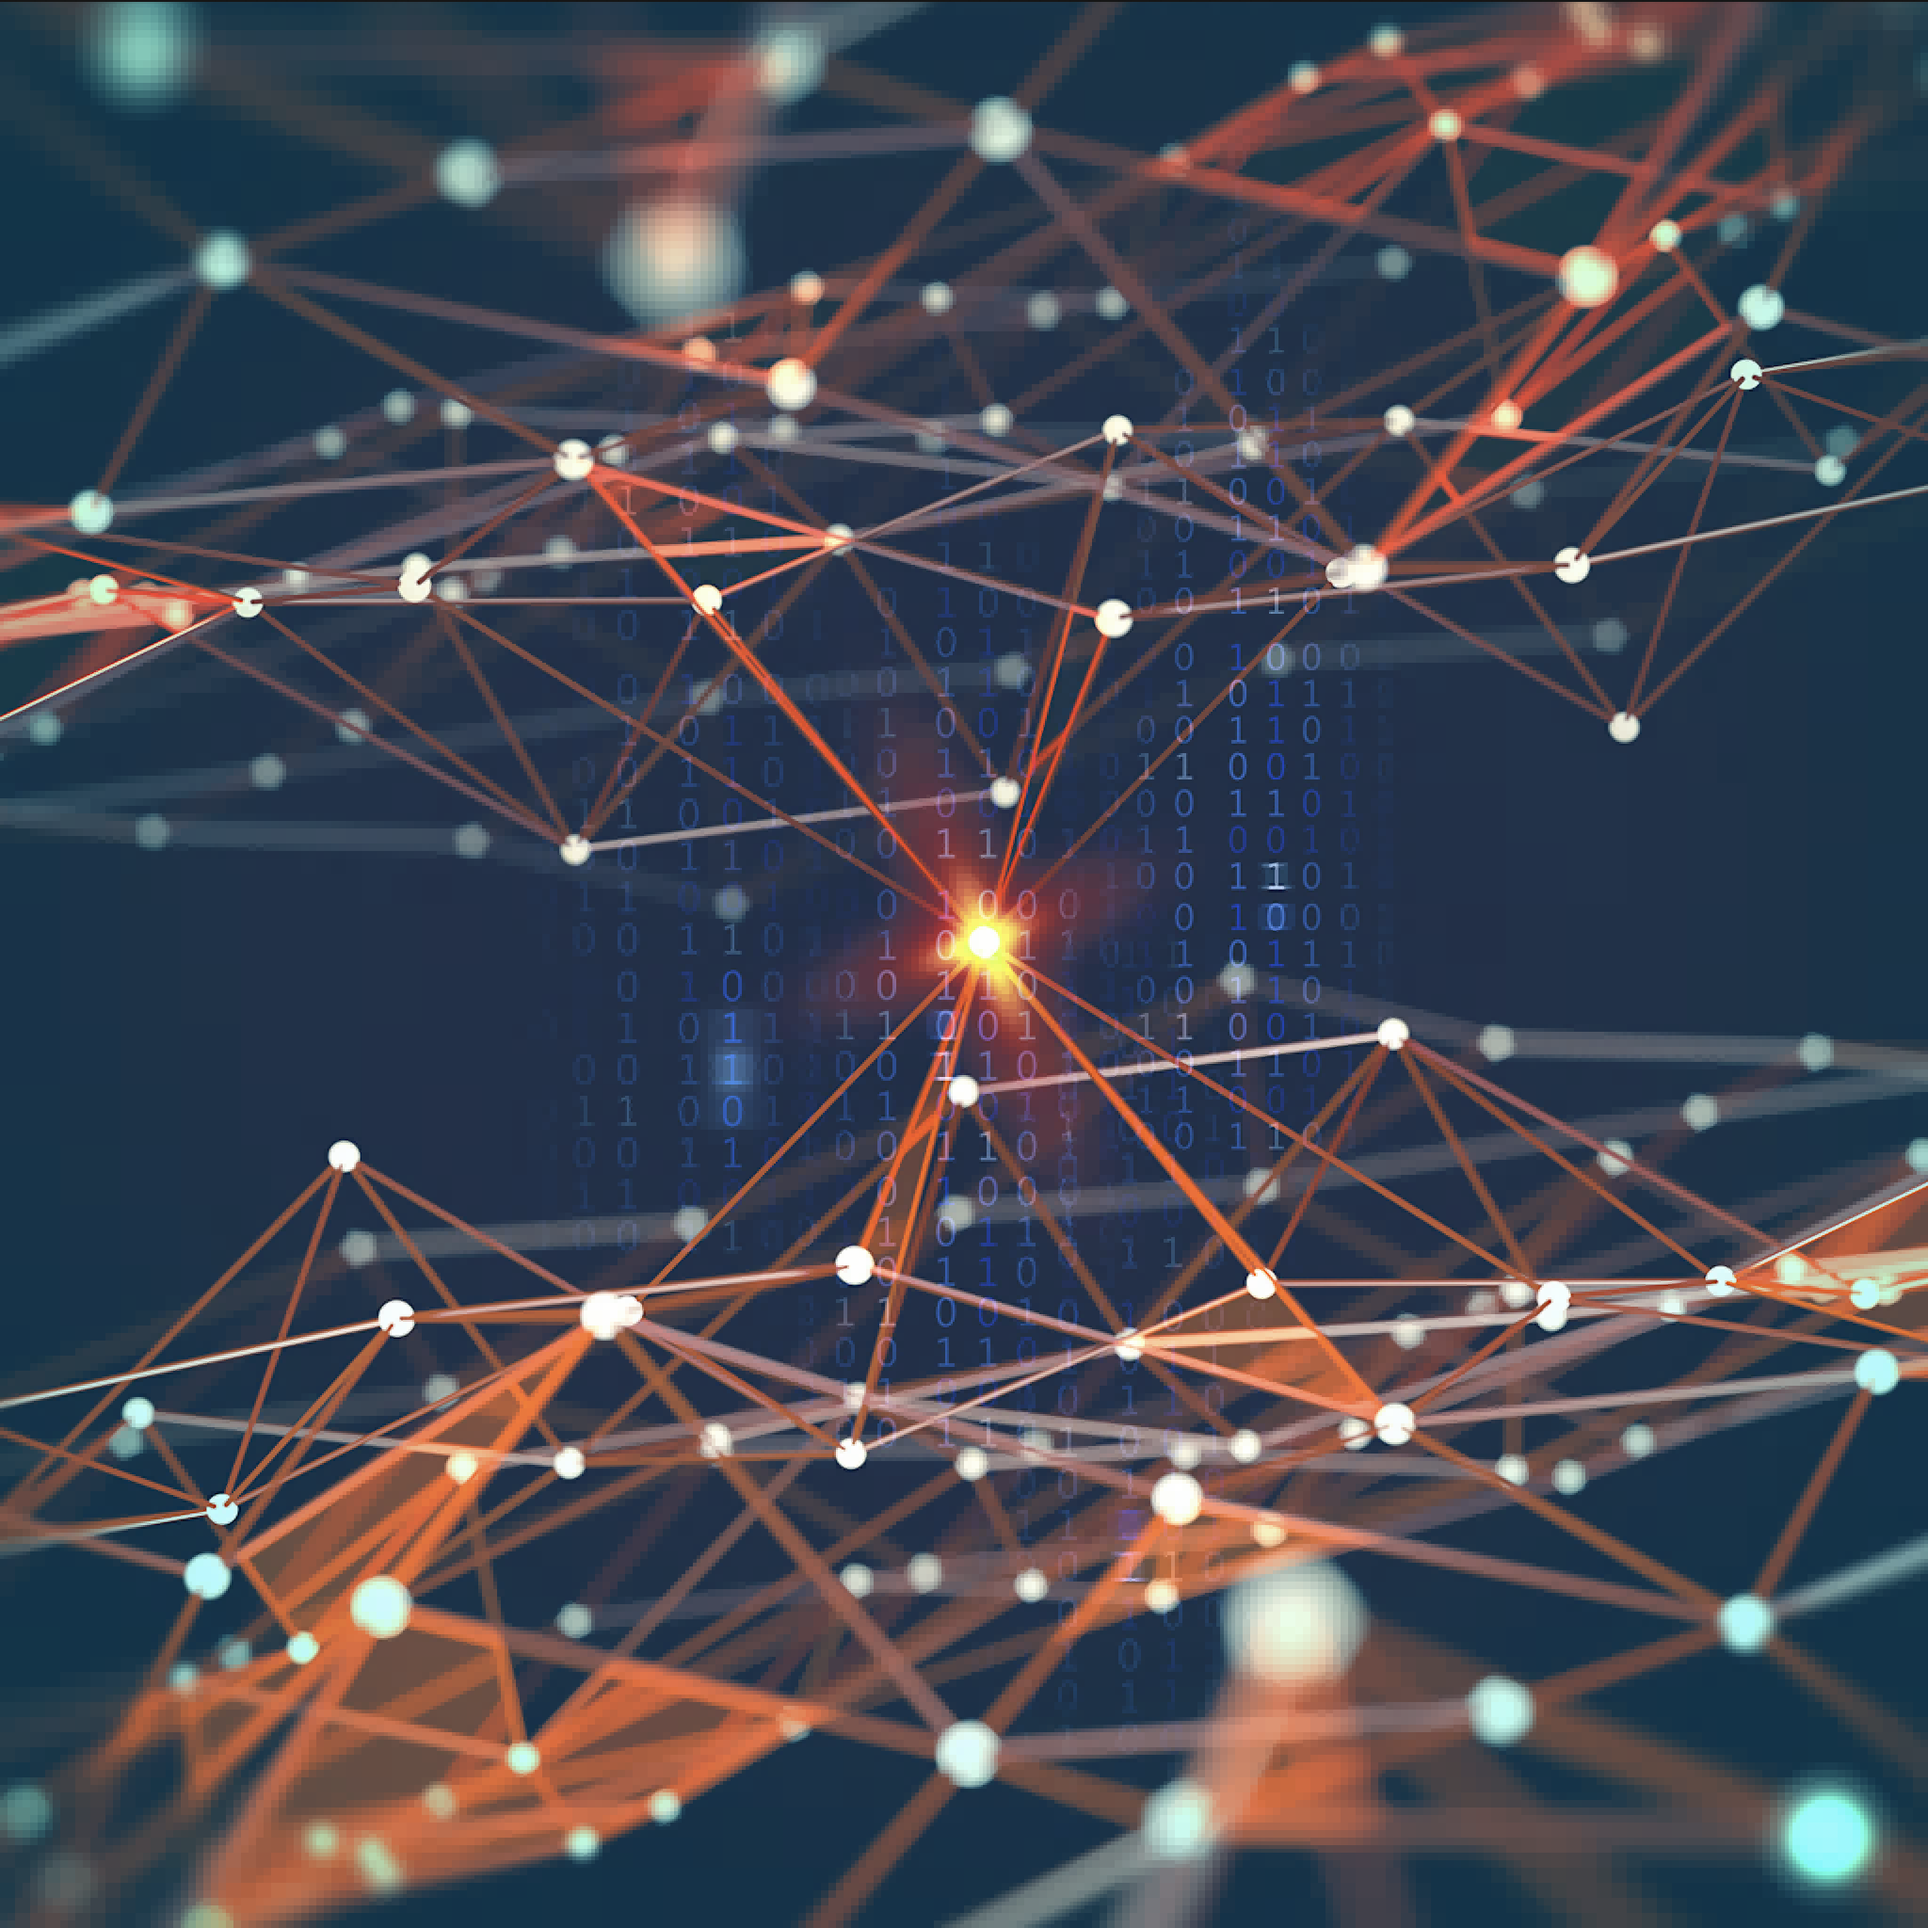
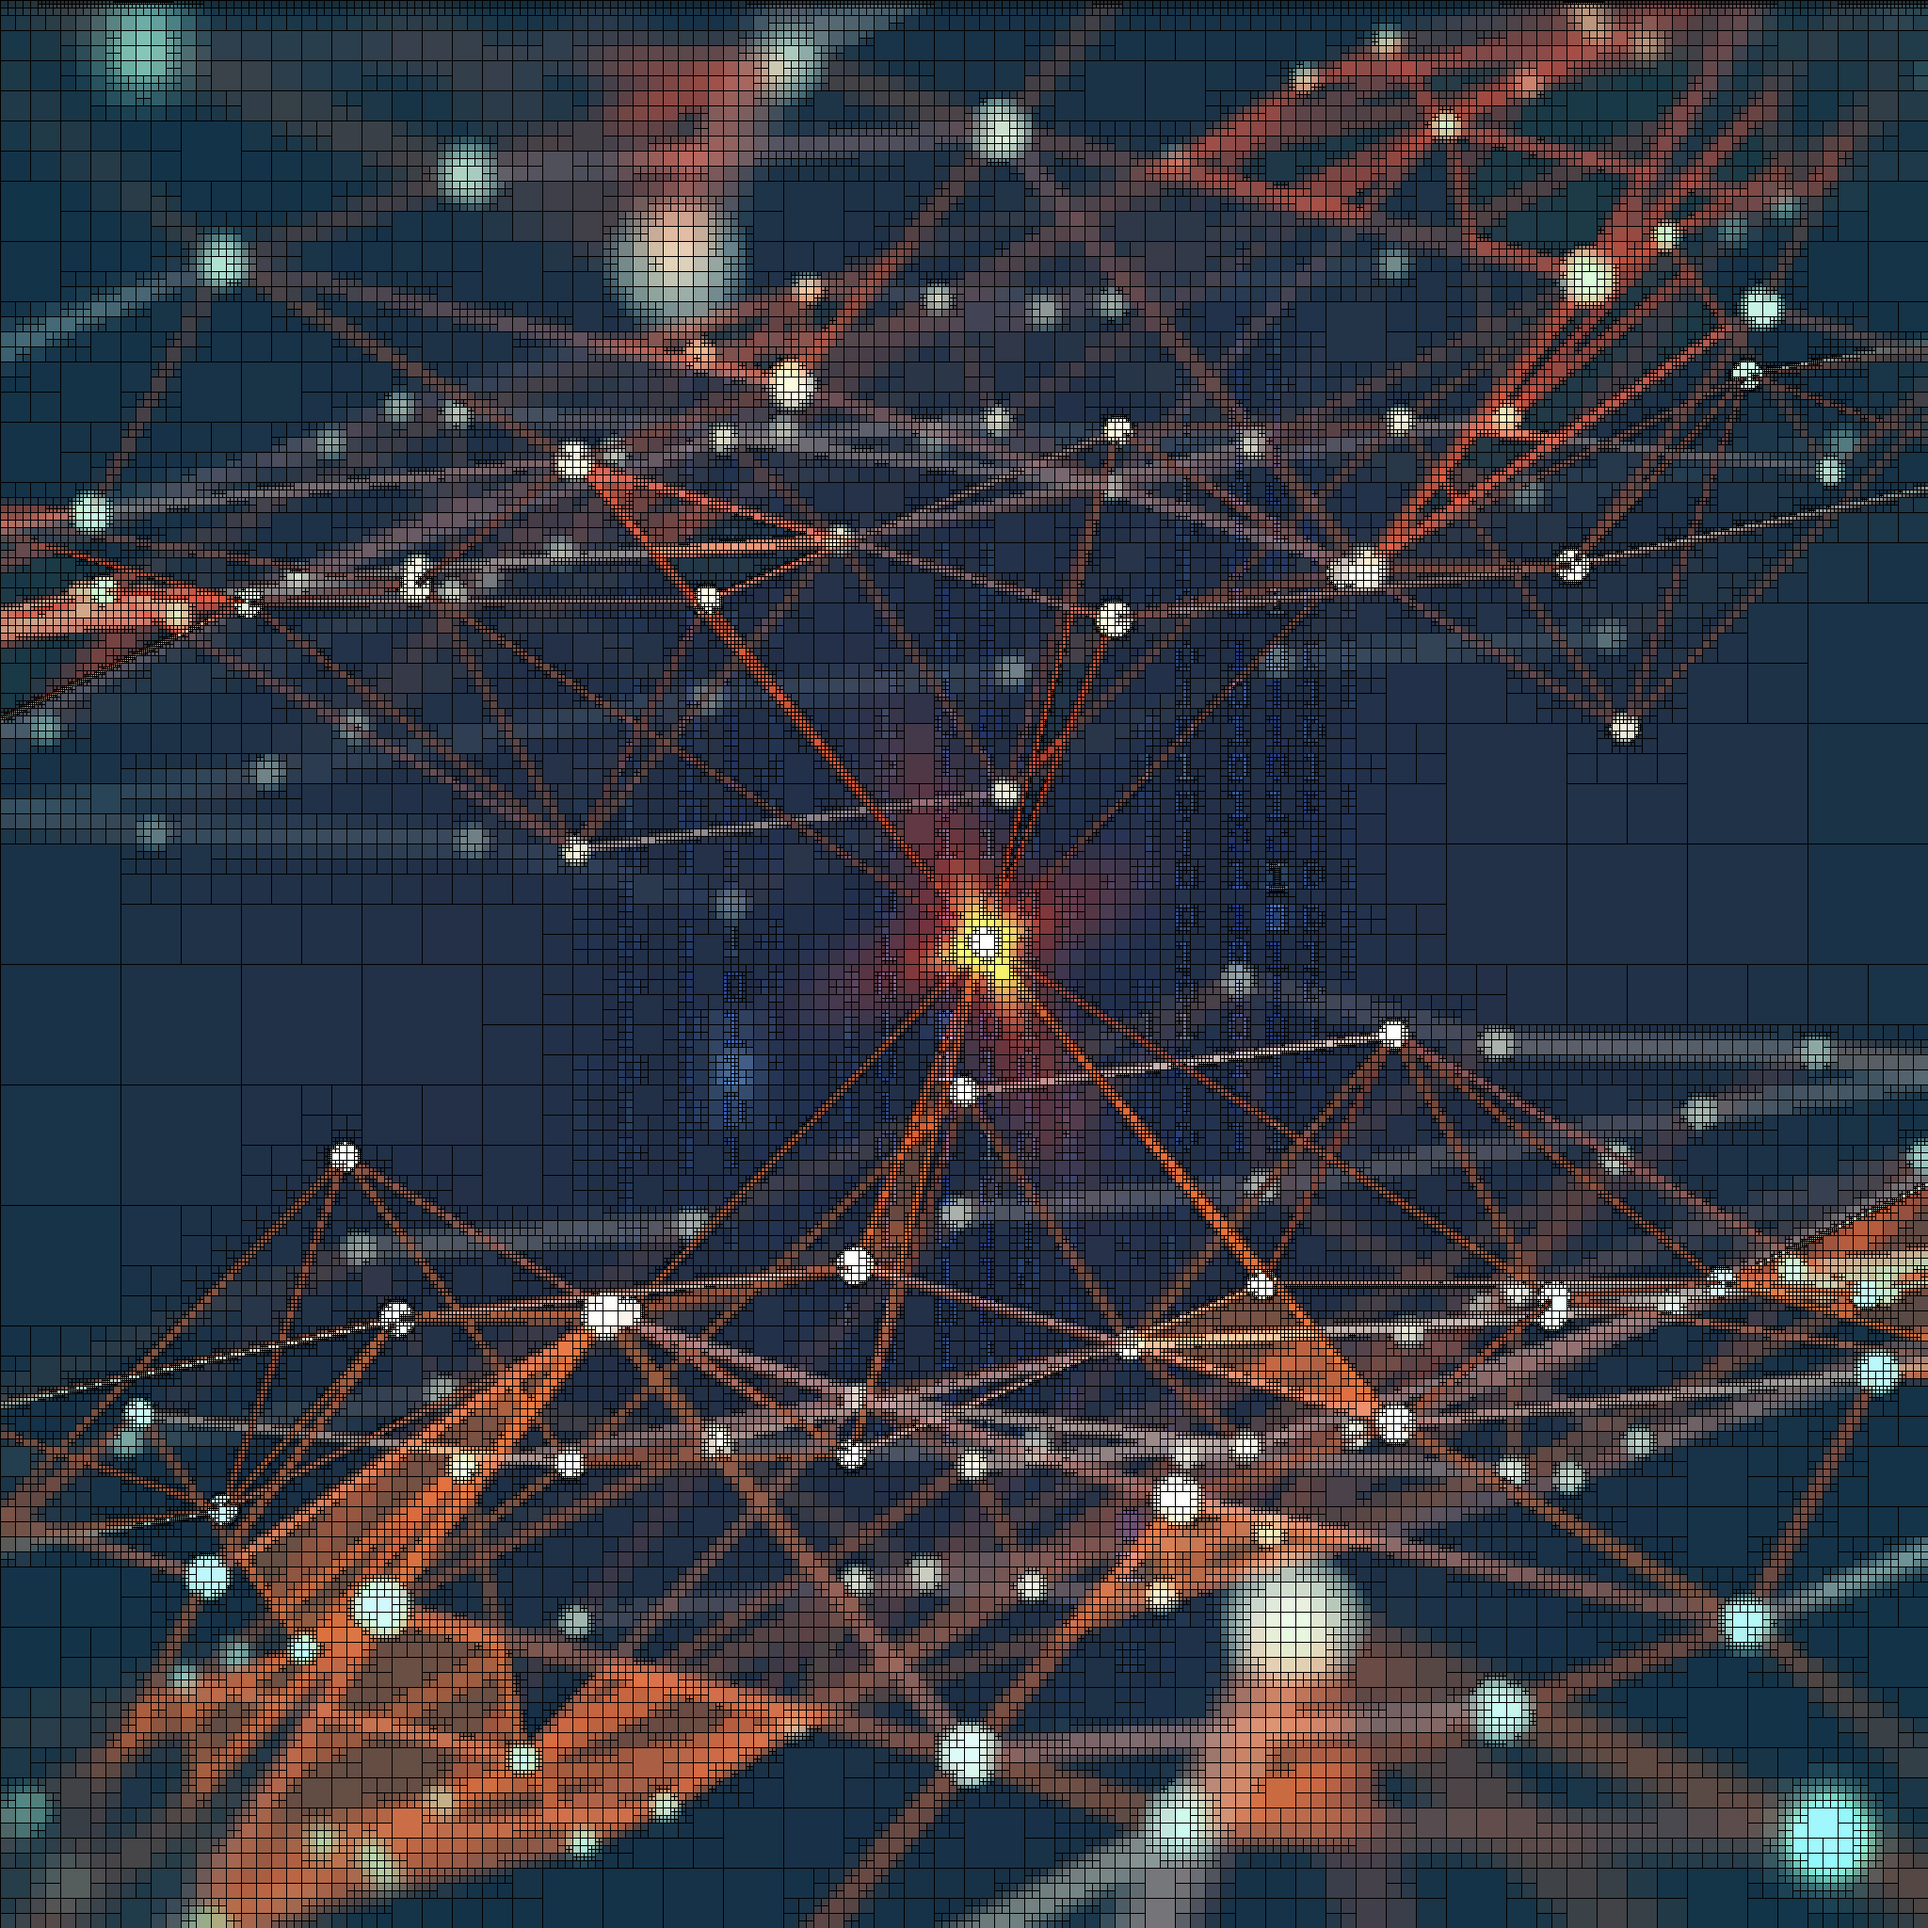
Gonna test out some code

Changed region(s): [[0.0, 0.0, 1.0, 1.0]]

diff --git a/main.cpp b/main.cpp
@@ -26,12 +26,12 @@ int main()
 	origIm2.readFromFile("images/orig/adasquare.png");
 	PNG origIm3;
 	origIm3.readFromFile("images/orig/stanley-totem-poles.png");
-	// PNG origIm4;
-	// origIm4.readFromFile("images/orig/ubc.png");
+	PNG origIm4;
+	origIm4.readFromFile("images/orig/network.png");
 	// PNG origIm5;
 	// origIm5.readFromFile("images/orig/network.png");
-	PNG origIm6;
-	origIm6.readFromFile("images/orig/ben.png");
+	// PNG origIm6;
+	// origIm6.readFromFile("images/orig/scott.png");
 
 	// use it to build a quadtree
 	qtcount t1(origIm1);
@@ -40,36 +40,36 @@ int main()
 	qtcount tCopy2(t2);
 	qtcount t3(origIm3);
 	qtcount tCopy3(t3);
-	// qtcount t4(origIm4);
-	// qtcount tCopy4(t4);
+	qtcount t4(origIm4);
+	qtcount tCopy4(t4);
 	// qtcount t5(origIm5);
 	// qtcount tCopy5(t5);
-	qtcount t6(origIm6);
-	qtcount tCopy6(t6);
+	// qtcount t6(origIm6);
+	// qtcount tCopy6(t6);
 
 	// prune the quadtree
 	tCopy1.prune(10000); 
 	tCopy2.prune(10000); 
 	tCopy3.prune(3000); 
-	// tCopy4.prune(20000);
+	tCopy4.prune(15000);
 	// tCopy5.prune(10000);
-	tCopy6.prune(7000);
+	// tCopy6.prune(10000);
 
     
 	// render the quadtree
 	PNG ppic1 = tCopy1.render();
 	PNG ppic2 = tCopy2.render();
 	PNG ppic3 = tCopy3.render();
-	// PNG ppic4 = tCopy4.render();
+	PNG ppic4 = tCopy4.render();
 	// PNG ppic5 = tCopy5.render();
-	PNG ppic6 = tCopy6.render();
+	// PNG ppic6 = tCopy6.render();
 
 	ppic1.writeToFile("images/out/output-prunedKJVFbig.png");
 	ppic2.writeToFile("images/out/output-prunedadasquare.png");
 	ppic3.writeToFile("images/out/output-prunedstanley-totem-poles-square.png");
-	// ppic4.writeToFile("images/out/output-prunedubc.png");
+	ppic4.writeToFile("images/out/output-prunednetwork.png");
 	// ppic5.writeToFile("images/out/output-networkpruned.png");
-	ppic6.writeToFile("images/out/output-benpruned.png");
+	// ppic6.writeToFile("images/out/output-scottpruned.png");
 	
 
 	// use it to build a quadtree
@@ -79,35 +79,35 @@ int main()
 	qtvar vCopy2(v2);
 	qtvar v3(origIm3);
 	qtvar vCopy3(v3);
-	// qtvar v4(origIm4);
-	// qtvar vCopy4(v4);
+	qtvar v4(origIm4);
+	qtvar vCopy4(v4);
 	// qtvar v5(origIm5);
 	// qtvar vCopy5(v5);
-	qtvar v6(origIm6);
-	qtvar vCopy6(v6);
+	// qtvar v6(origIm6);
+	// qtvar vCopy6(v6);
 
 	// prune the quadtree
 	vCopy1.prune(10000); 
 	vCopy2.prune(10000); 
 	vCopy3.prune(3000); 
-	// vCopy4.prune(20000); 
+	vCopy4.prune(80000); 
 	// vCopy5.prune(10000);
-	vCopy6.prune(10000);
+	// vCopy6.prune(30000);
 	
 	// render the quadtree
 	PNG vpic1 = vCopy1.render();
 	PNG vpic2 = vCopy2.render();
 	PNG vpic3 = vCopy3.render();
-	// PNG vpic4 = vCopy4.render();
+	PNG vpic4 = vCopy4.render();
 	// PNG vpic5 = vCopy5.render();
-	PNG vpic6 = vCopy6.render();
+	// PNG vpic6 = vCopy6.render();
 
 	vpic1.writeToFile("images/out/output-prunedKJVFbig-var.png");
 	vpic2.writeToFile("images/out/output-prunedadasquare-var.png");
 	vpic3.writeToFile("images/out/output-prunedstanley-totem-poles-var.png");
-	// vpic4.writeToFile("images/out/output-prunedubc-var.png");
+	vpic4.writeToFile("images/out/output-prunednetwork-var.png");
 	// vpic5.writeToFile("images/out/output-prunednetwork-var.png");
-	vpic6.writeToFile("images/out/output-benpruned-var.png");
+	// vpic6.writeToFile("images/out/output-scottpruned-var.png");
 
     // comparisons
 

diff --git a/quadtree.cpp b/quadtree.cpp
@@ -75,14 +75,10 @@ PNG quadtree::render() {
 }
 
 void quadtree::renderHelper(PNG & img, Node * root) {
-	if (root->NE == NULL && root->NW == NULL && root->SE == NULL && root->SW == NULL) {
+	if (root->NW == NULL) {
 		for (int row = root->upLeft.first; row < root->upLeft.first + pow(2,root->dim); row++) {
 			for (int col = root->upLeft.second; col < root->upLeft.second + pow(2,root->dim); col++) {
-				RGBAPixel* curr = img.getPixel(row, col);
-				curr->r = root->avg.r;
-				curr->g = root->avg.g;
-				curr->b = root->avg.b;
-				curr->a = root->avg.a;
+				*(img.getPixel(row, col)) = root->avg;
 			}
 		}
 	} else {
